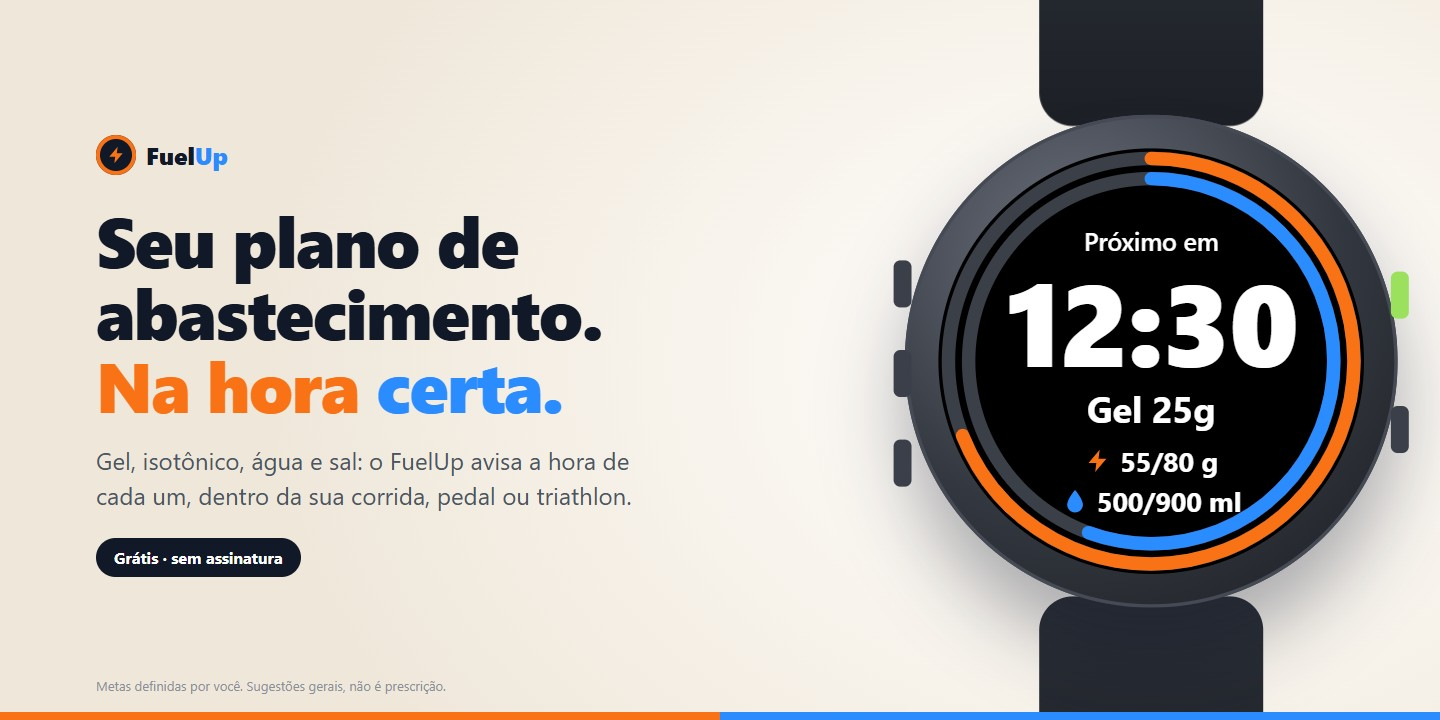
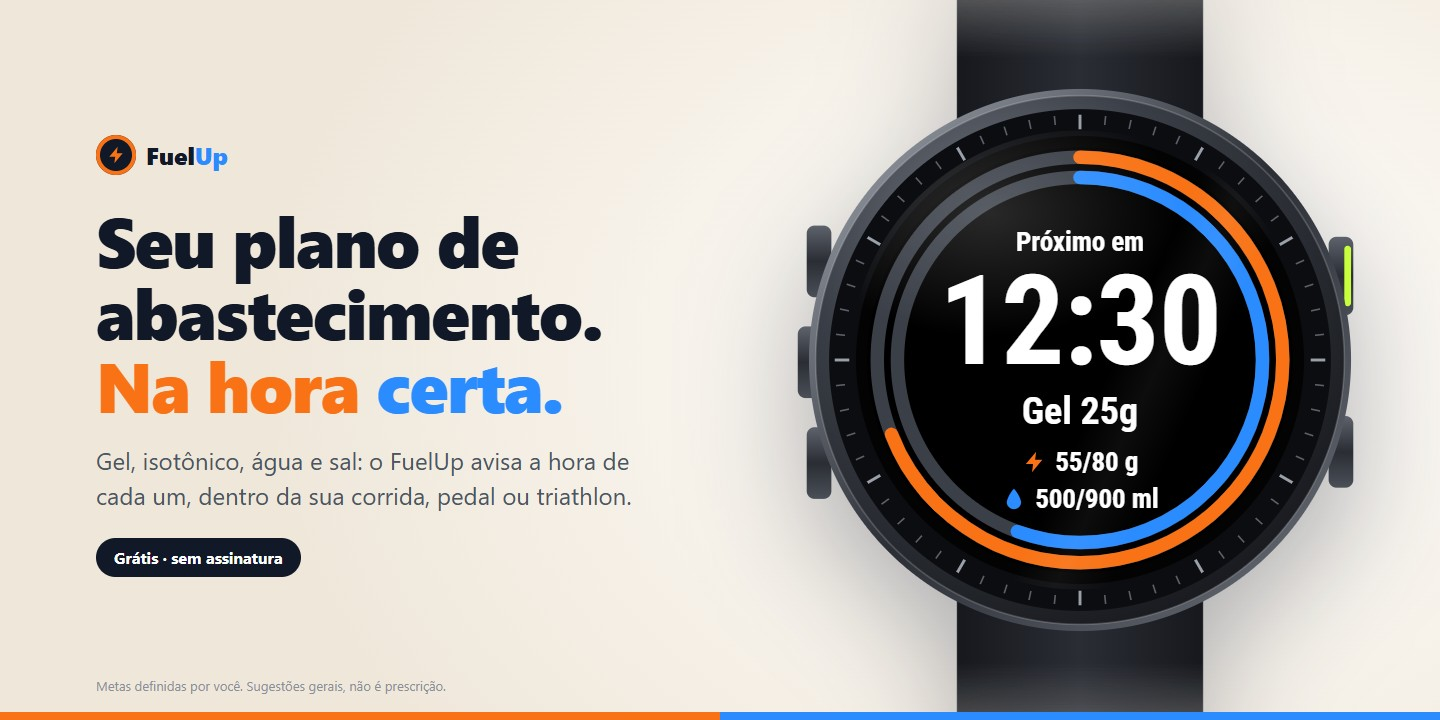
Loja: relógio realista nas imagens (caixa metálica, bezel, reflexo, Roboto Condensed)

Changed region(s): [[0.5312, 0.0, 1.0, 1.0]]

diff --git a/docs/loja/imagens.html b/docs/loja/imagens.html
@@ -2,6 +2,7 @@
 <html lang="pt-BR">
 <head>
 <meta charset="utf-8">
+<link href="https://fonts.googleapis.com/css2?family=Roboto+Condensed:wght@400;700&display=swap" rel="stylesheet">
 <style>
   * { box-sizing: border-box; margin: 0; padding: 0; }
   body { font-family: "Segoe UI", "Helvetica Neue", Arial, sans-serif; background: #ccc; }
@@ -34,32 +35,34 @@
   .chip svg { width: 16px; height: 16px; }
   .fine { position: absolute; left: 76px; bottom: 26px; font-size: 13px; color: #8a8f99; }
 
-  /* relógio (caixa base 520x520) */
-  .watch { position: absolute; width: 520px; height: 520px; transform-origin: 0 0; }
-  .watch .strap { position: absolute; left: 160px; width: 200px; height: 220px; background: linear-gradient(#2b2f37, #1c1f25); border-radius: 30px; }
-  .watch .strap.top { top: -170px; } .watch .strap.bottom { bottom: -170px; }
-  .watch .bezel { position: absolute; inset: 40px; border-radius: 50%;
-           background: radial-gradient(circle at 35% 28%, #6b717d, #33373f 55%, #1a1c21);
-           box-shadow: 0 40px 70px rgba(17,24,39,.35), inset 0 0 0 3px #454a55; }
-  .watch .btn { position: absolute; width: 16px; height: 42px; background: #3a3f4a; border-radius: 6px; }
-  .watch .screen { position: absolute; inset: 70px; border-radius: 50%; background: #000; overflow: hidden; }
+  /* relógio realista: caixa base 600x900, centro (300,450) */
+  .watch { position: absolute; width: 600px; height: 900px; transform-origin: 0 0; filter: drop-shadow(0 40px 50px rgba(17,24,39,.32)); }
+  /* pontas da pulseira somem suavemente, como em foto de produto */
+  .watch > svg.body { -webkit-mask-image: linear-gradient(to bottom, transparent 0, #000 20%, #000 80%, transparent 100%);
+                      mask-image: linear-gradient(to bottom, transparent 0, #000 20%, #000 80%, transparent 100%); }
+  .watch > svg.body { position: absolute; inset: 0; width: 600px; height: 900px; }
+  .watch .screen { position: absolute; left: 110px; top: 260px; width: 380px; height: 380px; border-radius: 50%; overflow: hidden; background: #000;
+                   font-family: "Roboto Condensed", "Segoe UI", sans-serif; }
+  .watch .glare { position: absolute; left: 95px; top: 245px; width: 410px; height: 410px; border-radius: 50%; pointer-events: none;
+                  background: radial-gradient(ellipse 70% 45% at 30% 18%, rgba(255,255,255,.16), rgba(255,255,255,0) 60%),
+                              linear-gradient(115deg, rgba(255,255,255,0) 55%, rgba(255,255,255,.05) 62%, rgba(255,255,255,0) 70%); }
   .screen svg.rings { position: absolute; inset: 0; width: 100%; height: 100%; }
   .face { position: absolute; inset: 0; display: flex; flex-direction: column; align-items: center; justify-content: center; color: #fff; }
-  .face .lbl { font-size: 22px; font-weight: 600; margin-top: 18px; }
-  .face .time { font-size: 104px; font-weight: 800; line-height: 1; letter-spacing: -2px; margin-top: 2px; }
-  .face .prod { font-size: 32px; font-weight: 700; margin-top: 6px; }
-  .face .big { font-size: 46px; font-weight: 800; line-height: 1.1; text-align: center; }
+  .face .lbl { font-size: 24px; font-weight: 700; margin-top: 18px; color: #fff; }
+  .face .time { font-size: 112px; font-weight: 700; line-height: 1; letter-spacing: -1px; margin-top: 0; }
+  .face .prod { font-size: 34px; font-weight: 700; margin-top: 4px; }
+  .face .big { font-size: 48px; font-weight: 700; line-height: 1.05; text-align: center; }
   .stat { display: flex; align-items: center; gap: 8px; font-size: 24px; font-weight: 700; margin-top: 10px; }
-  .stat svg { width: 24px; height: 24px; }
+  .stat svg { width: 22px; height: 22px; }
   .stat + .stat { margin-top: 4px; }
   .alert { position: absolute; inset: 0; background: #fff; color: #000; display: flex; flex-direction: column; align-items: center; }
   .alert .band { width: 100%; height: 30%; display: flex; align-items: flex-end; justify-content: center; padding-bottom: 16px;
-                 font-size: 24px; font-weight: 800; letter-spacing: 1px; }
-  .alert .prod { font-size: 40px; font-weight: 800; margin-top: 34px; }
-  .alert .stat { color: #000; font-size: 30px; margin-top: 18px; }
+                 font-size: 25px; font-weight: 700; letter-spacing: .5px; }
+  .alert .prod { font-size: 44px; font-weight: 700; margin-top: 34px; }
+  .alert .stat { color: #000; font-size: 32px; margin-top: 16px; }
   .native { position: absolute; inset: 0; display: flex; flex-direction: column; align-items: center; justify-content: center; color: #fff; }
-  .native .k { font-size: 22px; color: #9aa4b2; letter-spacing: 2px; font-weight: 600; }
-  .native .v { font-size: 84px; font-weight: 800; line-height: 1; margin: 4px 0 10px; }
+  .native .k { font-size: 24px; color: #9aa4b2; letter-spacing: 1px; font-weight: 700; }
+  .native .v { font-size: 92px; font-weight: 700; line-height: 1; margin: 4px 0 8px; }
   .native hr { width: 70%; border: 0; border-top: 2px solid #333a46; margin: 10px 0 14px; }
   .wcap { position: absolute; width: 190px; text-align: center; font-size: 16px; font-weight: 700; color: #374151; }
 
@@ -80,7 +83,7 @@
     <p class="lead">Gel, isotônico, água e sal: o FuelUp avisa a hora de cada um, dentro da sua corrida, pedal ou triathlon.</p>
     <div class="pill">Grátis · sem assinatura</div>
   </div>
-  <div class="watch" data-face="field" data-c="0.69" data-w="0.5556" style="left:860px; top:70px; transform:scale(1.12)"></div>
+  <div class="watch" data-face="field" data-c="0.69" data-w="0.5556" style="left:744px; top:-144px; transform:scale(1.12)"></div>
   <div class="fine" style="left:96px">Metas definidas por você. Sugestões gerais, não é prescrição.</div>
   <div class="bar"><i></i><i></i></div>
 </div>
@@ -93,7 +96,7 @@
     <p class="lead">Carboidrato e hidratação num olhar: quanto falta para o próximo consumo e quanto você já cumpriu do plano.</p>
     <div class="pill">Grátis · sem assinatura</div>
   </div>
-  <div class="watch" data-face="field" data-c="0.69" data-w="0.5556" style="left:690px; top:40px; transform:scale(1.0)"></div>
+  <div class="watch" data-face="field" data-c="0.69" data-w="0.5556" style="left:639px; top:-137px; transform:scale(.97)"></div>
   <div class="bar"><i></i><i></i></div>
 </div>
 
@@ -108,8 +111,8 @@
       <div class="chip" data-icon="drop">Hora de beber</div>
     </div>
   </div>
-  <div class="watch" data-face="eat" style="left:620px; top:150px; transform:scale(.56)"></div>
-  <div class="watch" data-face="drink" style="left:900px; top:150px; transform:scale(.56)"></div>
+  <div class="watch" data-face="eat" style="left:566px; top:39px; transform:scale(.58)"></div>
+  <div class="watch" data-face="drink" style="left:856px; top:39px; transform:scale(.58)"></div>
 
   <div class="bar"><i></i><i></i></div>
 </div>
@@ -124,12 +127,12 @@
       <div class="chip">Corrida</div><div class="chip">Ciclismo</div><div class="chip">Natação</div><div class="chip">Triathlon</div>
     </div>
   </div>
-  <div class="watch" data-face="pace" style="left:600px; top:180px; transform:scale(.36)"></div>
-  <div class="watch" data-face="hr" style="left:776px; top:180px; transform:scale(.36)"></div>
-  <div class="watch" data-face="field" data-c="0.5" data-w="0.3334" style="left:950px; top:140px; transform:scale(.44)"></div>
-  <div class="wcap" style="left:598px; top:490px">Ritmo</div>
-  <div class="wcap" style="left:774px; top:490px">FC e distância</div>
-  <div class="wcap" style="left:969px; top:490px; color:#f97316">FuelUp</div>
+  <div class="watch" data-face="pace" style="left:556px; top:109px; transform:scale(.38)"></div>
+  <div class="watch" data-face="hr" style="left:746px; top:109px; transform:scale(.38)"></div>
+  <div class="watch" data-face="field" data-c="0.5" data-w="0.3334" style="left:927px; top:73px; transform:scale(.46)"></div>
+  <div class="wcap" style="left:575px; top:505px">Ritmo</div>
+  <div class="wcap" style="left:765px; top:505px">FC e distância</div>
+  <div class="wcap" style="left:970px; top:505px; color:#f97316">FuelUp</div>
   <div class="bar"><i></i><i></i></div>
 </div>
 
@@ -172,11 +175,33 @@
     pace: () => `<div class="native"><div class="k">RITMO</div><div class="v">5:12</div><div class="k">/KM</div></div>`,
     hr: () => `<div class="native"><div class="k">FC</div><div class="v">152</div><hr><div class="k">DISTÂNCIA</div><div class="v" style="font-size:64px">8,42</div></div>`,
   };
+  const ticks = Array.from({ length: 60 }, (_, i) => {
+    const long = i % 5 === 0, a = i * 6 * Math.PI / 180, r1 = long ? 206 : 211, r2 = 219;
+    return `<line x1="${300 + r1 * Math.sin(a)}" y1="${450 - r1 * Math.cos(a)}" x2="${300 + r2 * Math.sin(a)}" y2="${450 - r2 * Math.cos(a)}"
+      stroke="${long ? '#9aa0aa' : '#5c626c'}" stroke-width="${long ? 2.6 : 1.4}"/>`;
+  }).join('');
+  const button = (x, y, h, accent) => `<rect x="${x}" y="${y}" width="22" height="${h}" rx="7" fill="url(#btn)"/>` +
+    (accent ? `<rect x="${x + (x > 300 ? 14 : 2)}" y="${y + 8}" width="6" height="${h - 16}" rx="3" fill="#c8ff3d"/>` : '');
+  const body = `<svg class="body" viewBox="0 0 600 900">
+    <defs>
+      <linearGradient id="strap" x1="0" x2="1"><stop offset="0" stop-color="#16181d"/><stop offset=".5" stop-color="#2a2d34"/><stop offset="1" stop-color="#16181d"/></linearGradient>
+      <radialGradient id="case" cx=".35" cy=".28" r=".8"><stop offset="0" stop-color="#7b818c"/><stop offset=".45" stop-color="#3a3e46"/><stop offset="1" stop-color="#16181c"/></radialGradient>
+      <linearGradient id="rim" x1="0" y1="0" x2="1" y2="1"><stop offset="0" stop-color="#a7adb7"/><stop offset=".5" stop-color="#2b2e35"/><stop offset="1" stop-color="#6d727c"/></linearGradient>
+      <linearGradient id="btn" x1="0" x2="0" y1="0" y2="1"><stop offset="0" stop-color="#5d626c"/><stop offset=".5" stop-color="#2a2d33"/><stop offset="1" stop-color="#4a4f58"/></linearGradient>
+    </defs>
+    <path d="M190 0 H410 V300 H190 Z" fill="url(#strap)"/>
+    <path d="M190 600 H410 V900 H190 Z" fill="url(#strap)"/>
+    <path d="M190 0 V300 M410 0 V300 M190 600 V900 M410 600 V900" stroke="rgba(255,255,255,.06)" stroke-width="2"/>
+    ${button(56, 330, 64)}${button(48, 420, 64)}${button(56, 510, 64)}${button(522, 340, 70, true)}${button(522, 500, 64)}
+    <circle cx="300" cy="450" r="242" fill="url(#rim)"/>
+    <circle cx="300" cy="450" r="236" fill="url(#case)"/>
+    <circle cx="300" cy="450" r="224" fill="#0c0d10"/>
+    ${ticks}
+    <circle cx="300" cy="450" r="200" fill="#030304"/>
+    <circle cx="300" cy="450" r="236" fill="none" stroke="rgba(255,255,255,.18)" stroke-width="1.5"/>
+  </svg>`;
   document.querySelectorAll('.watch').forEach((el) => {
-    el.innerHTML = `<div class="strap top"></div><div class="strap bottom"></div><div class="bezel"></div>
-      <div class="btn" style="left:30px; top:170px"></div><div class="btn" style="left:30px; top:250px"></div>
-      <div class="btn" style="left:30px; top:330px"></div><div class="btn" style="right:30px; top:180px; background:#9be15d"></div>
-      <div class="btn" style="right:30px; top:300px"></div><div class="screen">${faces[el.dataset.face](el)}</div>`;
+    el.innerHTML = body + `<div class="screen">${faces[el.dataset.face](el)}</div><div class="glare"></div>`;
   });
   document.querySelectorAll('[data-bolt]').forEach((el) => { el.innerHTML = BOLT; });
   document.querySelectorAll('.chip[data-icon]').forEach((el) => { el.insertAdjacentHTML('afterbegin', el.dataset.icon === 'bolt' ? BOLT : DROP); });
